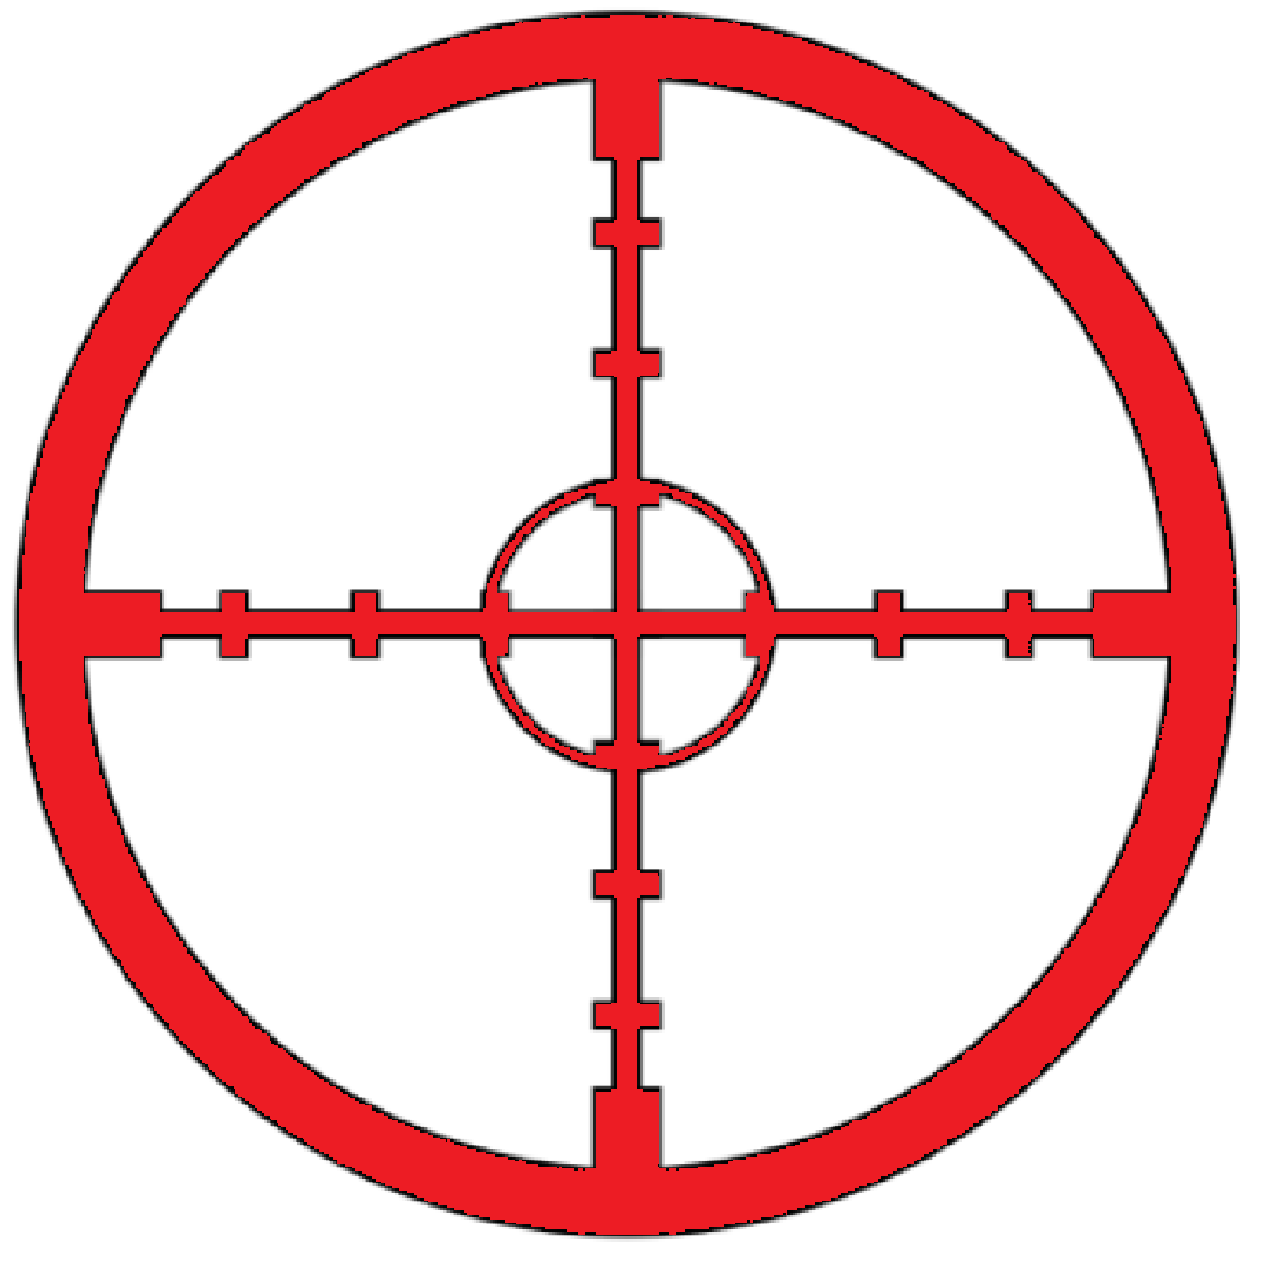
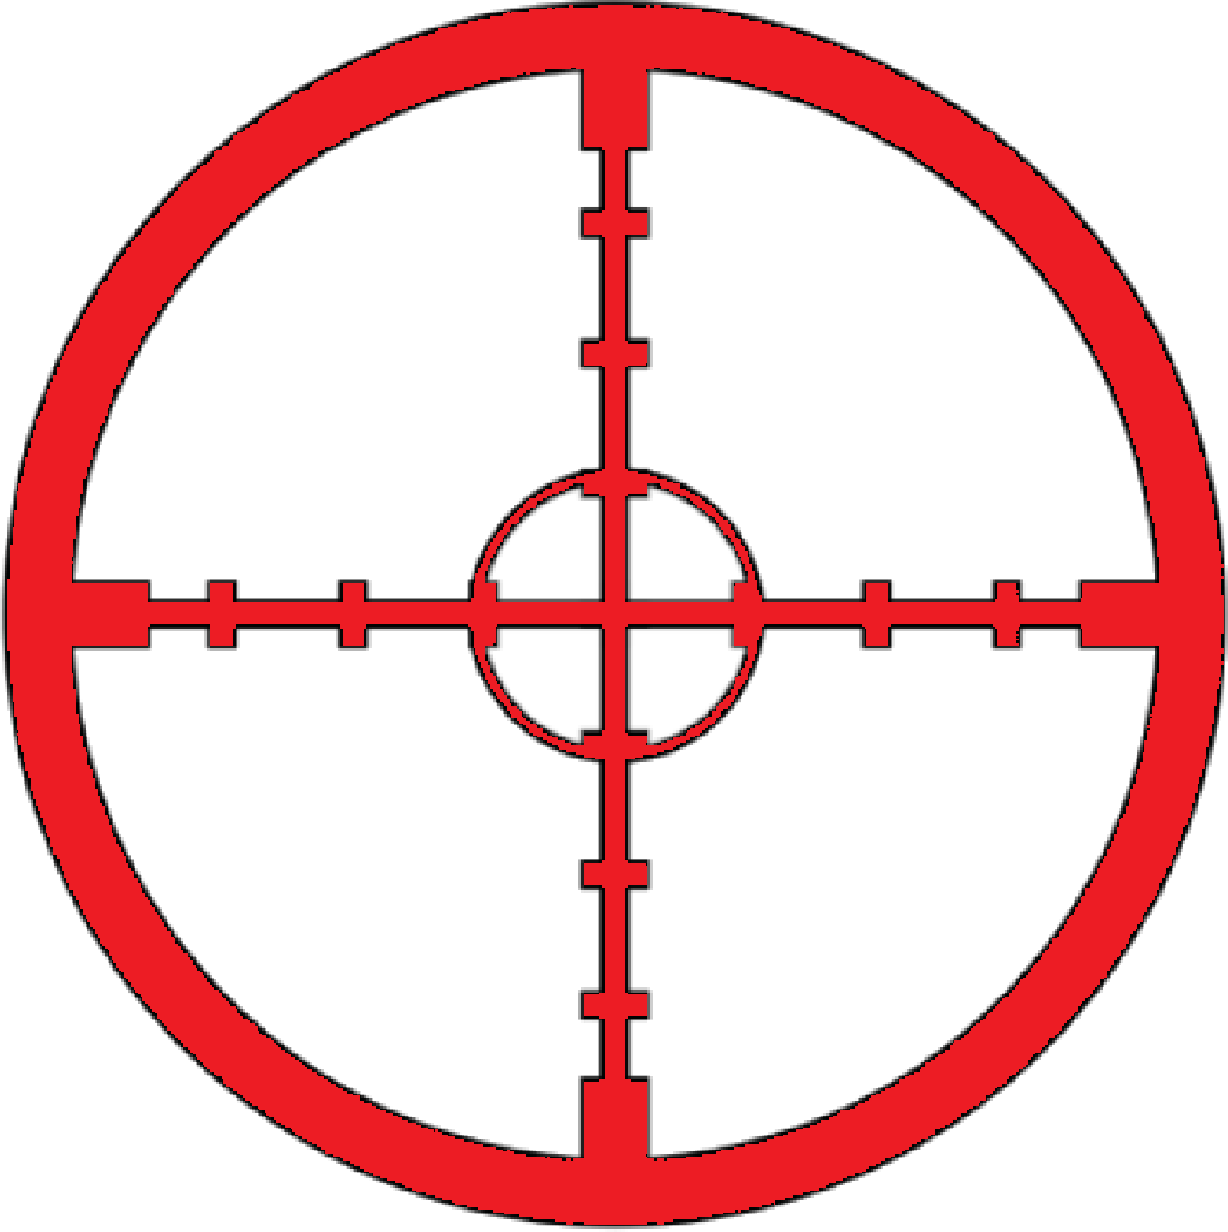
마우스 커서 위치 조정
커서랑 다르게 발사되던 총알 수정.
커서 위치 조정 코드 추가

diff --git a/Assets/Hyun/Scripts/ShootingControl.cs b/Assets/Hyun/Scripts/ShootingControl.cs
@@ -44,7 +44,7 @@ public class ShootingControl : MonoBehaviour
         if(!owner.isDie)
         if (WhenTargeting)
         {
-            Cursor.SetCursor(targetingImage, Vector2.zero, CursorMode.Auto);
+            Cursor.SetCursor(targetingImage, new Vector2(targetingImage.width/2, targetingImage.height / 3f), CursorMode.Auto);
             AtargetingPos = Camera.main.ScreenToWorldPoint(Input.mousePosition + new Vector3(20, -20, 0));
 
             var dir = Input.mousePosition - Camera.main.WorldToScreenPoint(transform.position);
